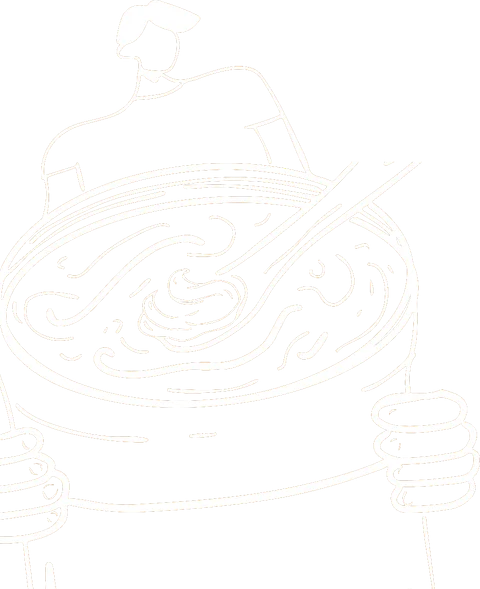
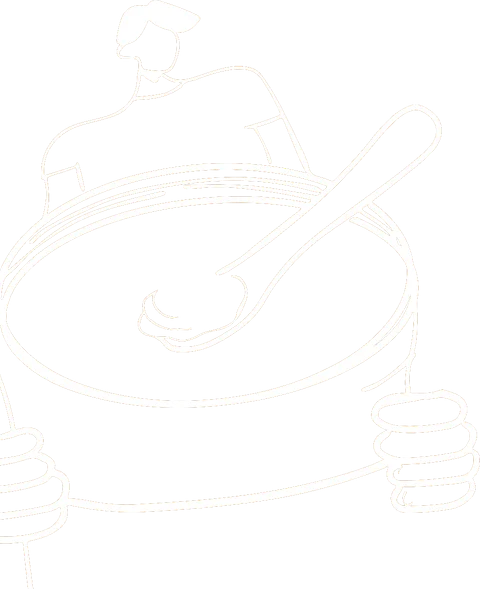
Hero mobile: corrijo cuchara cortada, agrando el dibujo y bajo el bloque de texto
El recorte anterior (basado en límites x/y manuales) le seguía comiendo
la punta de la cuchara porque se cruza con la zona del texto en el
diseño original. Lo reemplazo por selección por componente conexo
(scipy.ndimage.label): me quedo solo con el blob que es la ilustración
completa (persona+olla+cuchara+manos), sin importar dónde esté el texto.

También agrando el dibujo (58vw -> 66vw) y bajo un poco el bloque de
logo+título+CTA (pt-4 -> pt-14) que había quedado pegado al countdown.

diff --git a/src/components/intro.tsx b/src/components/intro.tsx
@@ -53,7 +53,7 @@ export function Intro() {
 
       {/* Columna central: logo + textos + CTA, en un solo bloque compacto,
           todo sobre el mismo eje vertical */}
-      <div className="relative z-10 flex flex-1 flex-col items-center justify-start px-6 pt-4 sm:justify-center sm:py-4">
+      <div className="relative z-10 flex flex-1 flex-col items-center justify-start px-6 pt-14 sm:justify-center sm:py-4">
         <motion.div
           initial={{ opacity: 0, y: 14 }}
           animate={{ opacity: 1, y: 0 }}
@@ -91,7 +91,7 @@ export function Intro() {
         initial={{ opacity: 0, y: 20 }}
         animate={{ opacity: 0.9, y: 0 }}
         transition={{ delay: 0.5, duration: 1, ease: EASE }}
-        className="pointer-events-none absolute -bottom-6 left-0 z-10 w-[58vw] max-w-64 sm:hidden"
+        className="pointer-events-none absolute -bottom-6 left-0 z-10 w-[66vw] max-w-72 sm:hidden"
       >
         <Image
           src="/hero-ilustracion.webp"
